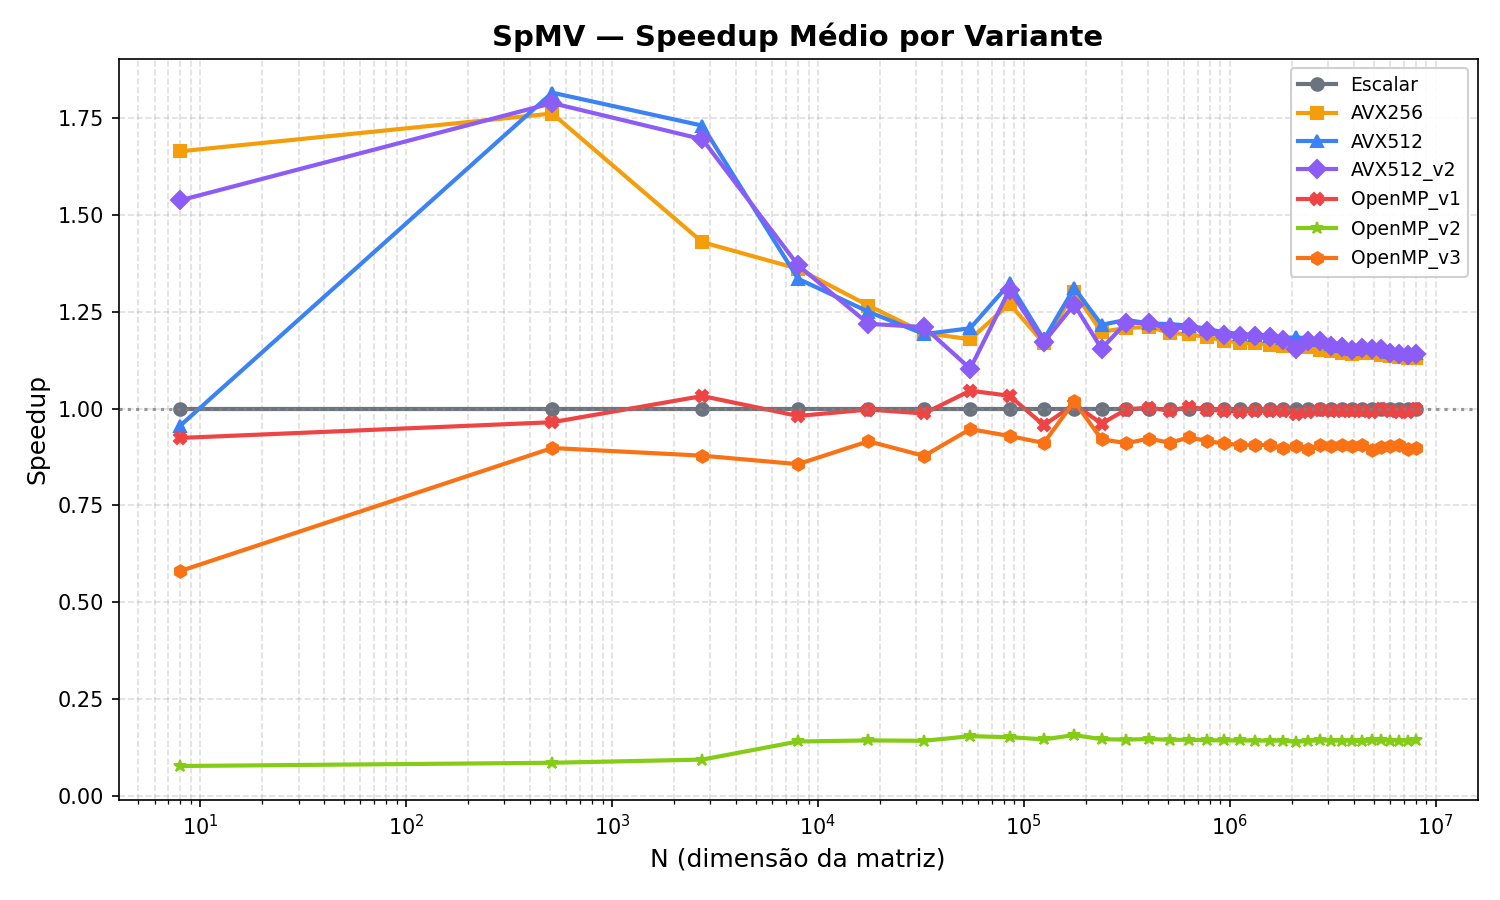
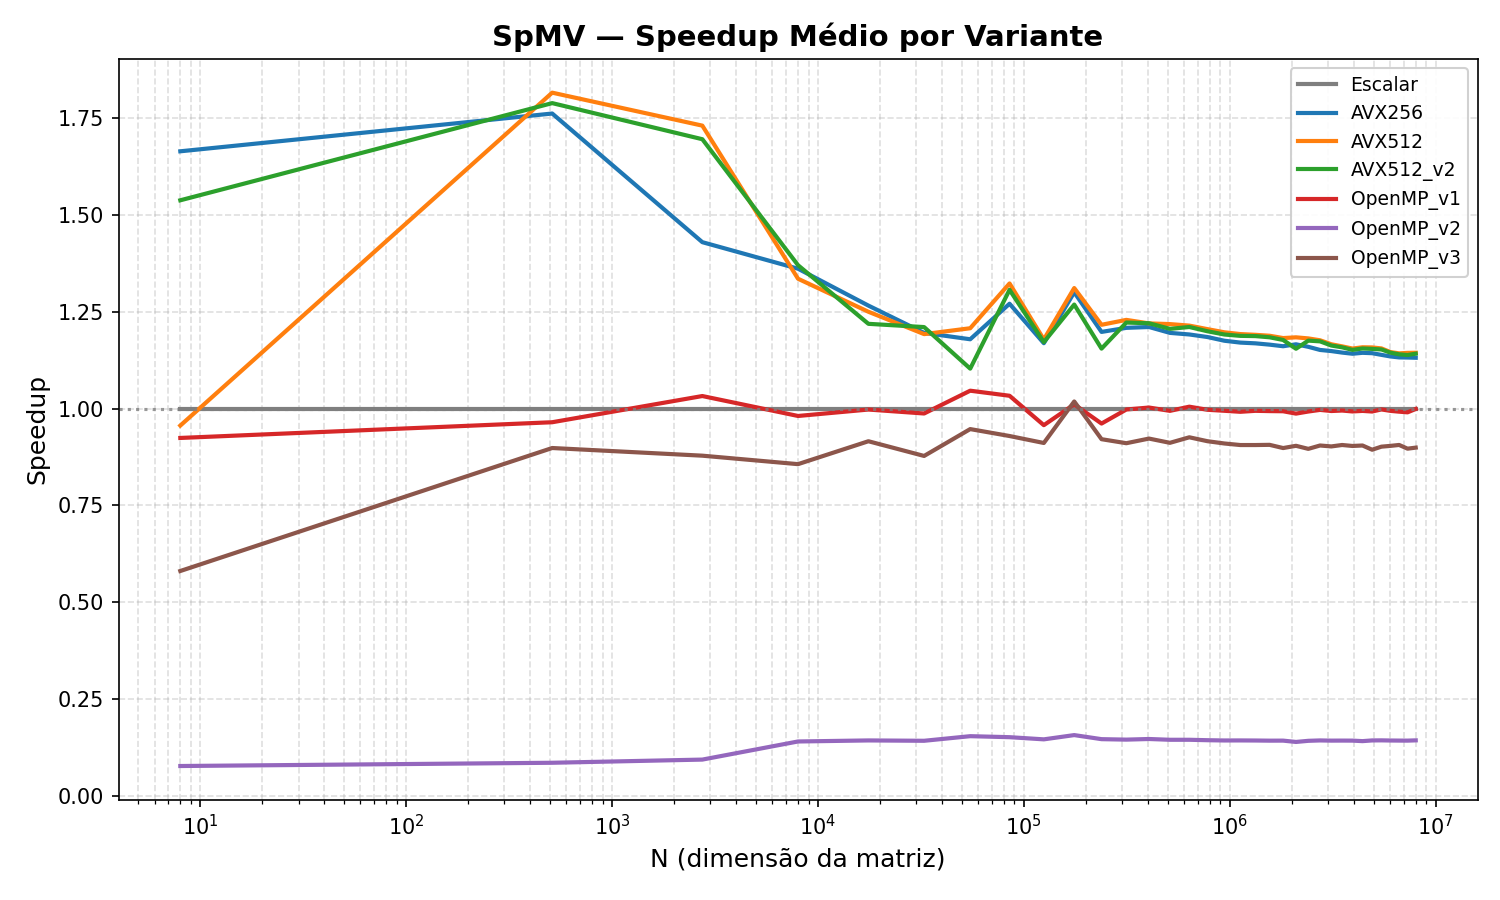
Add new speedup plots and refactor plotting functions for clarity

diff --git a/plots/spmv_speedup.py b/plots/spmv_speedup.py
@@ -4,25 +4,14 @@ import numpy as np
 import os
 
 COLORS = {
-    "Escalar":    "#6b7280",
-    "AVX256":     "#f59e0b",
-    "AVX512":     "#3b82f6",
-    "AVX512_v2":  "#8b5cf6",
-    "OpenMP_v1":  "#ef4444",
-    "OpenMP_v2":  "#84cc16",
-    "OpenMP_v3":  "#f97316",
+    "Escalar": "#7f7f7f",
+    "AVX256": "#1f77b4",
+    "AVX512": "#ff7f0e",
+    "AVX512_v2": "#2ca02c",
+    "OpenMP_v1": "#d62728",
+    "OpenMP_v2": "#9467bd",
+    "OpenMP_v3": "#8c564b",
 }
-
-MARKERS = {
-    "Escalar":    "o",
-    "AVX256":     "s",
-    "AVX512":     "^",
-    "AVX512_v2":  "D",
-    "OpenMP_v1":  "X",
-    "OpenMP_v2":  "*",
-    "OpenMP_v3":  "h",
-}
-
 
 def plot_speedup(df, metric, title, filename):
     _, ax = plt.subplots(figsize=(10, 6))
@@ -34,13 +23,11 @@ def plot_speedup(df, metric, title, filename):
             subset[metric],
             label=variante,
             color=COLORS.get(variante, None),
-            marker=MARKERS.get(variante, "o"),
             linewidth=2,
             markersize=6,
         )
 
     ax.set_xscale("log")
-    # ax.set_yscale("log")
 
     ax.set_xlabel("N (dimensão da matriz)", fontsize=12)
     ax.set_ylabel("Speedup", fontsize=12)
@@ -54,36 +41,32 @@ def plot_speedup(df, metric, title, filename):
     plt.close()
 
 
-def plot_speedup_bars(df, metric, title, filename):
-    variantes = df["variante"].unique()
-    n_values = sorted(df["N"].unique())
-    n_variantes = len(variantes)
+def plot_speedup_general(df, metrics, labels_metrics, title, filename):
+    variantes = df["variante"].values
+    n_metrics = len(metrics)
 
-    _, ax = plt.subplots(figsize=(max(10, len(n_values) * 2.5), 6))
+    _, ax = plt.subplots(figsize=(max(10, len(variantes) * 2), 6))
 
-    bar_width = 0.8 / n_variantes
-    x = np.arange(len(n_values))
+    bar_width = 0.8 / n_metrics
+    x = np.arange(len(variantes))
 
-    for i, variante in enumerate(variantes):
-        valores = []
-        for n in n_values:
-            row = df[(df["variante"] == variante) & (df["N"] == n)]
-            valores.append(row[metric].values[0] if len(row) > 0 else 0)
+    bar_colors = ["#4285F4", "#EA4335"]
 
-        offset = (i - n_variantes / 2 + 0.5) * bar_width
+    for i, (metric, label) in enumerate(zip(metrics, labels_metrics)):
+        offset = (i - n_metrics / 2 + 0.5) * bar_width
         ax.bar(
             x + offset,
-            valores,
+            df[metric].values,
             bar_width,
-            label=variante,
-            color=COLORS.get(variante, None),
+            label=label,
+            color=bar_colors[i],
             edgecolor="white",
             linewidth=0.5,
         )
 
     ax.set_xticks(x)
-    ax.set_xticklabels([str(n) for n in n_values])
-    ax.set_xlabel("N (dimensão da matriz)", fontsize=12)
+    ax.set_xticklabels(variantes, rotation=25, ha="right", fontsize=11)
+    ax.set_xlabel("Variante", fontsize=12)
     ax.set_ylabel("Speedup", fontsize=12)
     ax.set_title(title, fontsize=14, fontweight="bold")
     ax.legend(loc="best", fontsize=9, framealpha=0.9)
@@ -117,16 +100,12 @@ for dirname in os.listdir():
         filename=f"{dirname}/spmv_speedup_median.png",
     )
 
-    plot_speedup_bars(
-        df,
-        metric="speedup_mean",
-        title="SpMV — Speedup Médio por Variante (Barras)",
-        filename=f"{dirname}/spmv_speedup_mean_bars.png",
-    )
+    df = pd.read_csv(f"{dirname}/spmv_general.csv")
 
-    plot_speedup_bars(
+    plot_speedup_general(
         df,
-        metric="speedup_median",
-        title="SpMV — Mediana do Speedup por Variante (Barras)",
-        filename=f"{dirname}/spmv_speedup_median_bars.png",
+        metrics=["speedup_geral_mean", "speedup_geral_median"],
+        labels_metrics=["Speedup Médio", "Mediana do Speedup"],
+        title="SpMV — Speedup por Variante (Geral)",
+        filename=f"{dirname}/spmv_speedup_general.png",
     )
